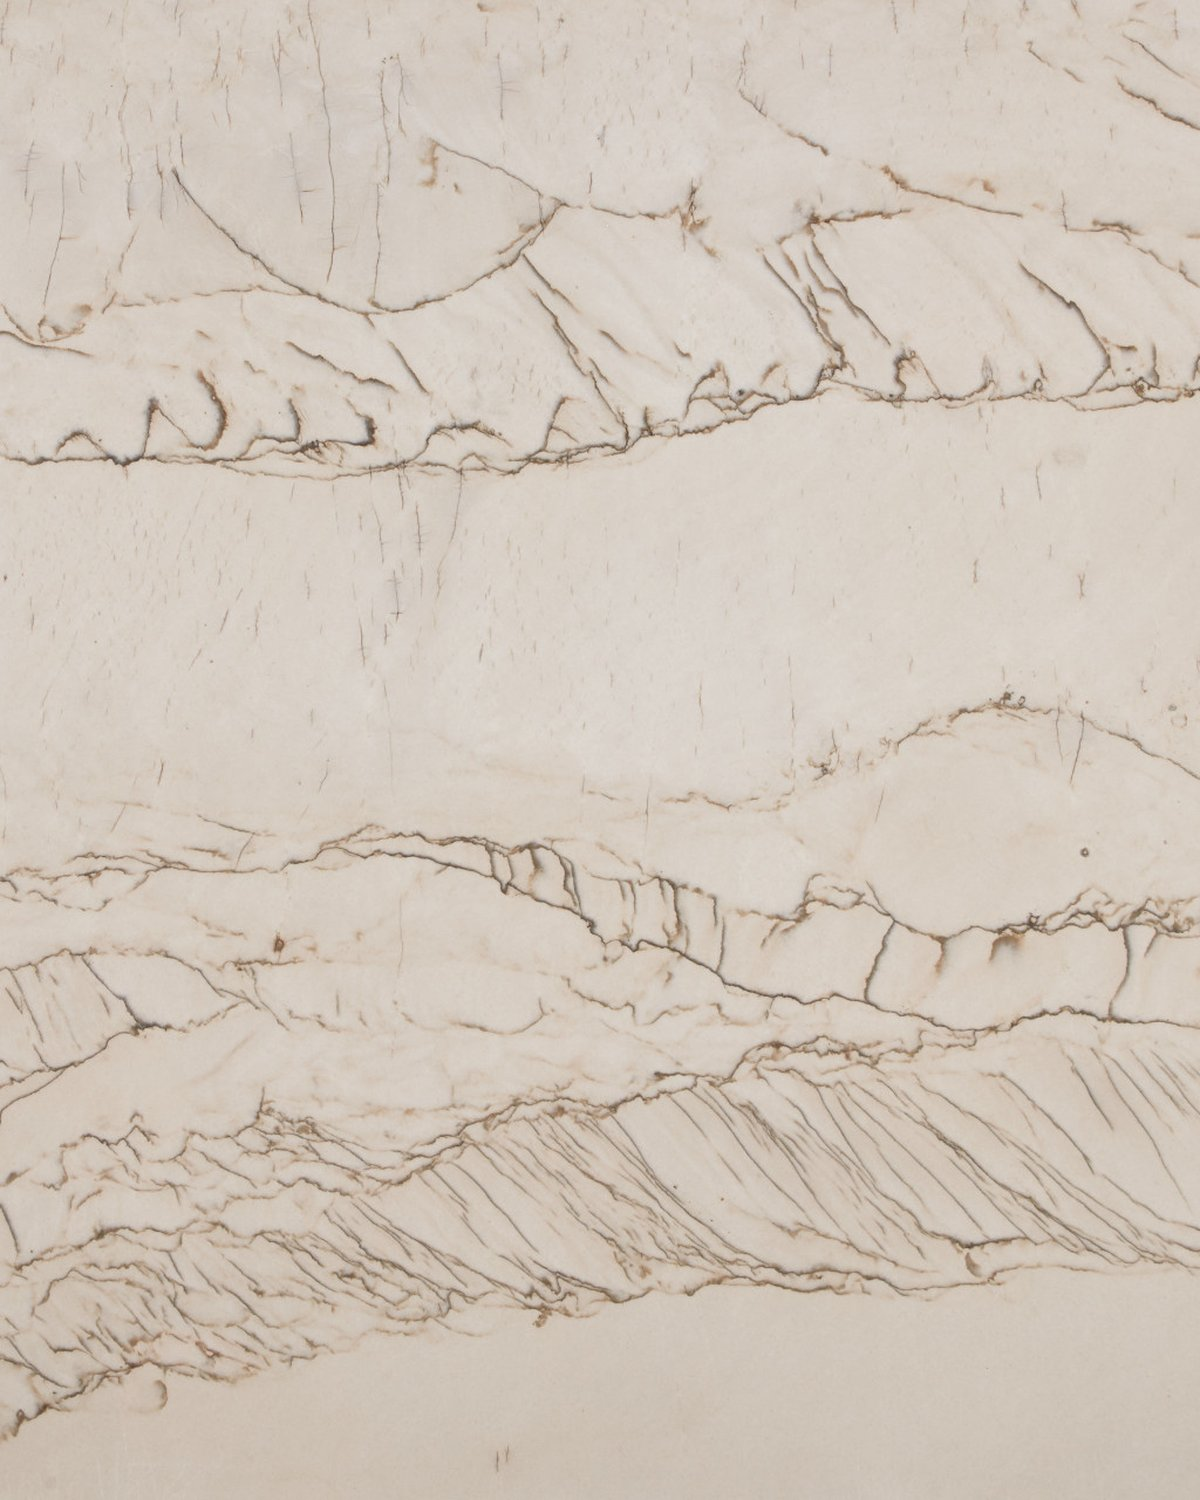
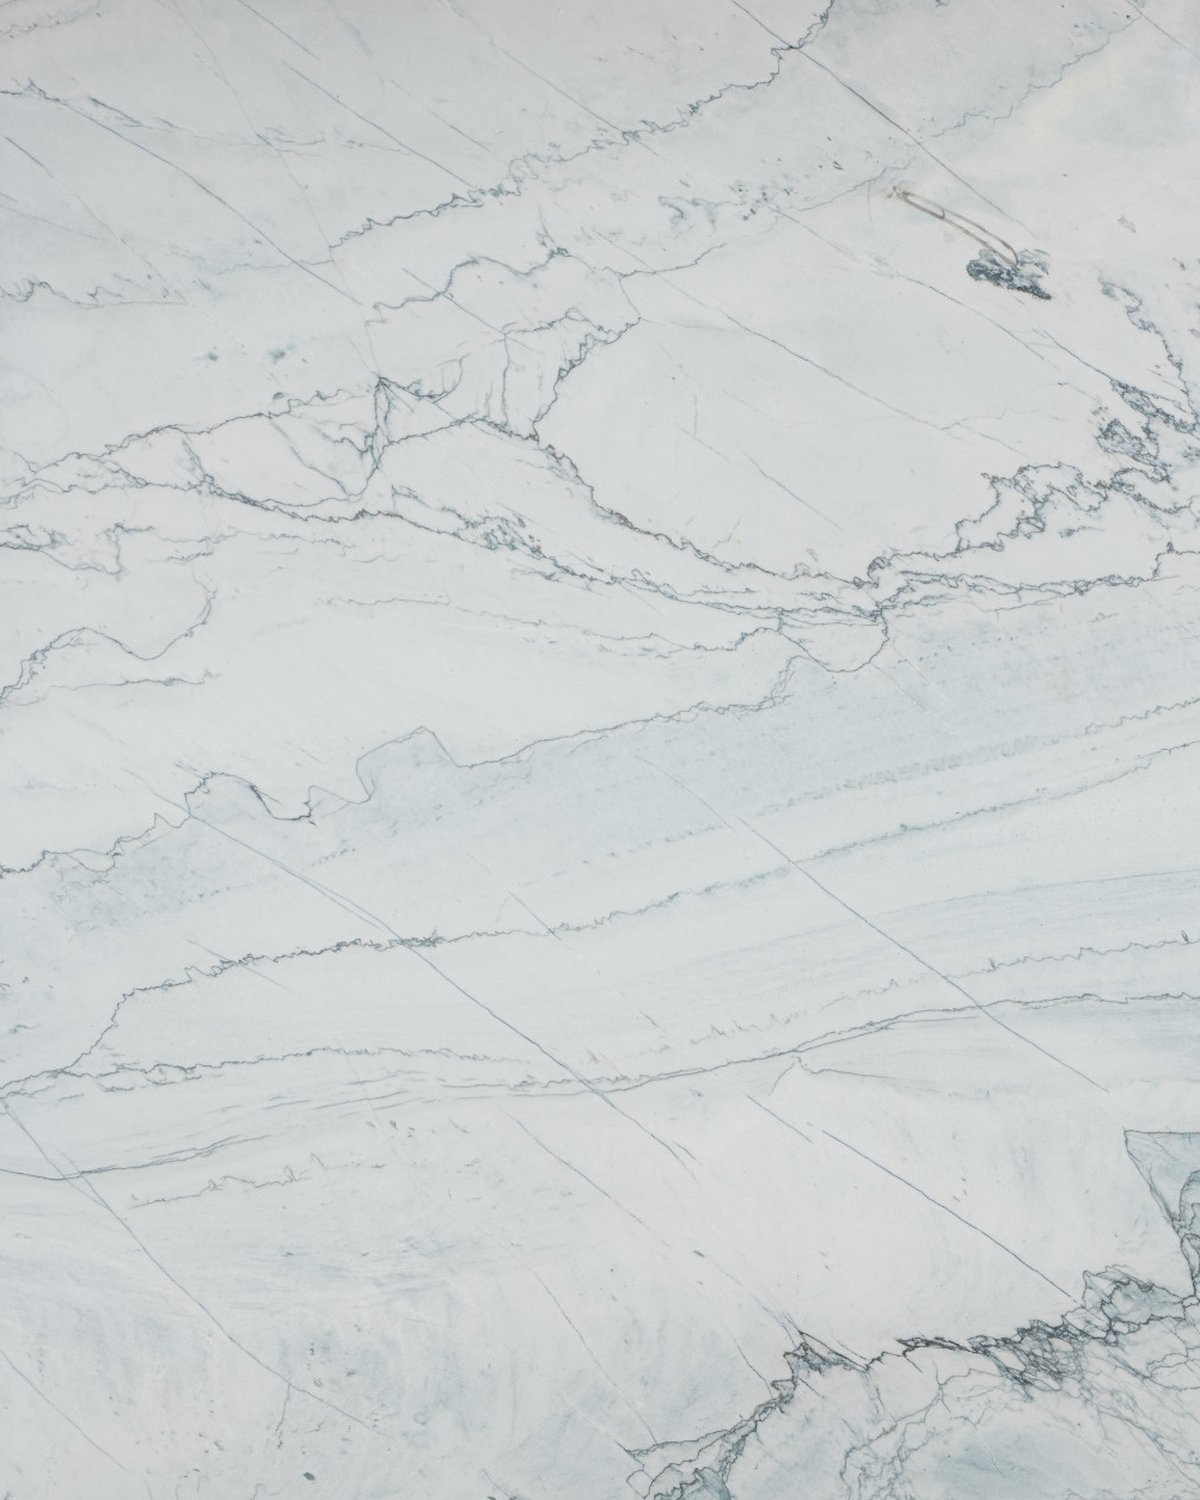
Palette: taller labelled rows. Scenes: replace three weak lead images
PALETTE
Rows were ~190px, which put ten-plus frames on screen at once — horizontal
noise rather than a palette. Items are now 380px (clamp 250–440px), so five
read at a time. Gap between rows went 2px to ~24px and each band carries a
standing STONE / TILE / CABINETRY label pinned left behind a gradient scrim,
so the three material types are unmistakable instead of blurring into one
continuous belt. The label plate was covering a third of a 390px screen, so
it shrinks under 620px.

SCENE LEADS
  01  Calacatta Taupe -> Artemis. Pale with crisp veining, and it carries the
      2x2 cell against four darker frames where the taupe went flat.
  03  Zagora zellige -> Masari. Faceted relief, which is what "surface, up
      close" is actually about. The zellige also came out of the palette row
      and the tile hero rotation — it was on screen three separate times.
  02  Bottom-right cell was a countertop with a utensil crock, not cabinetry.
      Now a fluted white oak island end: unmistakably a door profile, and a
      different one from the flat-panel oak already in the cluster.

Checked six cabinetry candidates before picking: three of them were ranges or
faucets rather than cabinetry, which is how the original slipped through.

Artemis is cut from the 2048px raw at 1.20x; Masari is native 800x1000 with no
upscale at all. Verified at 1440 and 390 — 105 images, none broken.

diff --git a/index.html b/index.html
@@ -329,17 +329,35 @@
     /* Three rows instead of one belt, each drifting against the one above it.
        Opposing directions read as a moving palette rather than a single conveyor,
        and three shallower rows show ~3x the material in the same vertical space. */
-    .mood-rows { display: flex; flex-direction: column; gap: 2px; }
+    .mood-rows { display: flex; flex-direction: column; gap: clamp(16px, 2.4vh, 30px); }
+    /* Each material gets its own band with a standing label, so stone / tile /
+       cabinetry read as three distinct rows rather than one continuous belt.
+       Rows are tall — short rows meant a lot of small frames on screen at once,
+       which was just horizontal noise. */
+    .mood-line { position: relative; overflow: hidden; }
+    .mood-line-label { position: absolute; left: 0; top: 0; bottom: 0; z-index: 3; display: flex; align-items: center;
+                       padding: 0 clamp(26px,3.4vw,52px) 0 clamp(20px,4vw,56px); pointer-events: none;
+                       background: linear-gradient(90deg, var(--void) 52%, rgba(10,9,8,0.82) 78%, rgba(10,9,8,0)); }
+    .mood-line-label span { font-family: var(--mono); font-size: clamp(10px,0.86vw,12px); letter-spacing: 0.3em;
+                            text-transform: uppercase; color: var(--bone); white-space: nowrap; }
+    .mood-line-label i { display: block; width: 26px; height: 1px; background: var(--line2, rgba(231,227,219,0.3)); margin-right: 14px; }
+    @media (max-width: 620px) {
+      /* the label plate was covering a third of a phone screen */
+      .mood-line-label { padding: 0 clamp(14px,3vw,20px) 0 clamp(14px,3vw,20px);
+                         background: linear-gradient(90deg, var(--void) 40%, rgba(10,9,8,0)); }
+      .mood-line-label i { width: 14px; margin-right: 9px; }
+      .mood-line-label span { font-size: 9px; letter-spacing: 0.22em; }
+    }
     .mood-row { display: flex; gap: 2px; width: max-content; will-change: transform; }
     .mood-row.r1 { animation: moodRight 150s linear infinite; }
     .mood-row.r2 { animation: moodLeft  128s linear infinite; }
     .mood-row.r3 { animation: moodRight 168s linear infinite; }
     .moodband:hover .mood-row { animation-play-state: paused; }
-    .mood-item { position: relative; flex: none; height: clamp(150px, 21vh, 250px); aspect-ratio: 3 / 4; overflow: hidden; background: var(--coal); }
+    .mood-item { position: relative; flex: none; height: clamp(250px, 40vh, 440px); aspect-ratio: 3 / 4; overflow: hidden; background: var(--coal); }
     .mood-item img { width: 100%; height: 100%; object-fit: cover; display: block; transition: transform 1.5s cubic-bezier(.2,.7,.2,1); }
     .mood-item:hover img { transform: scale(1.05); }
     .mood-item::after { content: ""; position: absolute; inset: 0; z-index: 2; pointer-events: none; background: linear-gradient(180deg, transparent 50%, rgba(10,9,8,0.74)); }
-    .mood-cap { position: absolute; left: 12px; bottom: 10px; z-index: 3; font-family: var(--mono); font-size: 9.5px; letter-spacing: 0.18em; text-transform: uppercase; color: rgba(231,227,219,0.92); }
+    .mood-cap { position: absolute; left: 14px; bottom: 12px; z-index: 3; font-family: var(--mono); font-size: 10.5px; letter-spacing: 0.2em; text-transform: uppercase; color: rgba(231,227,219,0.92); }
     @keyframes moodLeft  { from { transform: translateX(0); }    to { transform: translateX(-50%); } }
     @keyframes moodRight { from { transform: translateX(-50%); } to { transform: translateX(0); } }
     @media (prefers-reduced-motion: reduce) { .mood-row { animation: none; } .mood-fade { opacity: 1 !important; } }
@@ -693,8 +711,9 @@
     </div>
     <div class="mood-rows">
       <!-- Stone — drifts right · set of 12, duplicated for the seamless wrap -->
-      <div class="mood-row r1">
-        <div class="mood-item"><img src="assets/img/material/mood/st-stella-maestro.jpg" alt="Stella Maestro" loading="lazy"><span class="mood-cap">Stella Maestro</span></div>
+      <div class="mood-line">
+        <div class="mood-line-label" aria-hidden="true"><i></i><span>Stone</span></div>
+  <div class="mood-row r1">        <div class="mood-item"><img src="assets/img/material/mood/st-stella-maestro.jpg" alt="Stella Maestro" loading="lazy"><span class="mood-cap">Stella Maestro</span></div>
         <div class="mood-item"><img src="assets/img/material/mood/st-titanium.jpg" alt="Titanium" loading="lazy"><span class="mood-cap">Titanium</span></div>
         <div class="mood-item"><img src="assets/img/material/mood/st-acqua-bella.jpg" alt="Acqua Bella" loading="lazy"><span class="mood-cap">Acqua Bella</span></div>
         <div class="mood-item"><img src="assets/img/material/mood/st-vittara.jpg" alt="Vittara" loading="lazy"><span class="mood-cap">Vittara</span></div>
@@ -717,11 +736,12 @@
         <div class="mood-item"><img src="assets/img/material/mood/st-blue-tahoe.jpg" alt="Blue Tahoe" loading="lazy"><span class="mood-cap">Blue Tahoe</span></div>
         <div class="mood-item"><img src="assets/img/material/mood/st-tempest-blue.jpg" alt="Tempest Blue" loading="lazy"><span class="mood-cap">Tempest Blue</span></div>
         <div class="mood-item"><img src="assets/img/material/mood/st-calacatta-taupe.jpg" alt="Calacatta Taupe" loading="lazy"><span class="mood-cap">Calacatta Taupe</span></div>
-        <div class="mood-item"><img src="assets/img/material/mood/st-ebon.jpg" alt="Ebon" loading="lazy"><span class="mood-cap">Ebon</span></div>
+        <div class="mood-item"><img src="assets/img/material/mood/st-ebon.jpg" alt="Ebon" loading="lazy"><span class="mood-cap">Ebon</span></div>      </div>
       </div>
       <!-- Tile — drifts left · set of 16, duplicated for the seamless wrap -->
-      <div class="mood-row r2">
-        <div class="mood-item"><img src="assets/img/material/mood/ti-zagora.jpg" alt="Zagora Zellige" loading="lazy"><span class="mood-cap">Zagora Zellige</span></div>
+      <div class="mood-line">
+        <div class="mood-line-label" aria-hidden="true"><i></i><span>Tile</span></div>
+  <div class="mood-row r2">        <div class="mood-item"><img src="assets/img/material/mood/ti-marduk.jpg" alt="Marduk wave-relief tile" loading="lazy"><span class="mood-cap">Marduk</span></div>
         <div class="mood-item"><img src="assets/img/material/mood/ti-thalia-3d-carved-rosette.jpg" alt="Thalia Carved" loading="lazy"><span class="mood-cap">Thalia Carved</span></div>
         <div class="mood-item"><img src="assets/img/material/mood/ti-santorini-petals.jpg" alt="Santorini Petals" loading="lazy"><span class="mood-cap">Santorini Petals</span></div>
         <div class="mood-item"><img src="assets/img/material/mood/ti-calacatta-monet-petite-lantern-mosaic.jpg" alt="Calacatta Lantern" loading="lazy"><span class="mood-cap">Calacatta Lantern</span></div>
@@ -729,7 +749,7 @@
         <div class="mood-item"><img src="assets/img/material/mood/ti-envy-chevron.jpg" alt="Envy Chevron" loading="lazy"><span class="mood-cap">Envy Chevron</span></div>
         <div class="mood-item"><img src="assets/img/material/mood/ti-illumine-silver-dust-mermaid-scale.jpg" alt="Illumine Mermaid" loading="lazy"><span class="mood-cap">Illumine Mermaid</span></div>
         <div class="mood-item"><img src="assets/img/material/mood/ti-scalloped-field-tile.jpg" alt="Scalloped Field" loading="lazy"><span class="mood-cap">Scalloped Field</span></div>
-        <div class="mood-item"><img src="assets/img/material/mood/ti-zagora.jpg" alt="Zagora Zellige" loading="lazy"><span class="mood-cap">Zagora Zellige</span></div>
+        <div class="mood-item"><img src="assets/img/material/mood/ti-marduk.jpg" alt="Marduk wave-relief tile" loading="lazy"><span class="mood-cap">Marduk</span></div>
         <div class="mood-item"><img src="assets/img/material/mood/ti-thalia-3d-carved-rosette.jpg" alt="Thalia Carved" loading="lazy"><span class="mood-cap">Thalia Carved</span></div>
         <div class="mood-item"><img src="assets/img/material/mood/ti-santorini-petals.jpg" alt="Santorini Petals" loading="lazy"><span class="mood-cap">Santorini Petals</span></div>
         <div class="mood-item"><img src="assets/img/material/mood/ti-calacatta-monet-petite-lantern-mosaic.jpg" alt="Calacatta Lantern" loading="lazy"><span class="mood-cap">Calacatta Lantern</span></div>
@@ -737,7 +757,7 @@
         <div class="mood-item"><img src="assets/img/material/mood/ti-envy-chevron.jpg" alt="Envy Chevron" loading="lazy"><span class="mood-cap">Envy Chevron</span></div>
         <div class="mood-item"><img src="assets/img/material/mood/ti-illumine-silver-dust-mermaid-scale.jpg" alt="Illumine Mermaid" loading="lazy"><span class="mood-cap">Illumine Mermaid</span></div>
         <div class="mood-item"><img src="assets/img/material/mood/ti-scalloped-field-tile.jpg" alt="Scalloped Field" loading="lazy"><span class="mood-cap">Scalloped Field</span></div>
-        <div class="mood-item"><img src="assets/img/material/mood/ti-zagora.jpg" alt="Zagora Zellige" loading="lazy"><span class="mood-cap">Zagora Zellige</span></div>
+        <div class="mood-item"><img src="assets/img/material/mood/ti-marduk.jpg" alt="Marduk wave-relief tile" loading="lazy"><span class="mood-cap">Marduk</span></div>
         <div class="mood-item"><img src="assets/img/material/mood/ti-thalia-3d-carved-rosette.jpg" alt="Thalia Carved" loading="lazy"><span class="mood-cap">Thalia Carved</span></div>
         <div class="mood-item"><img src="assets/img/material/mood/ti-santorini-petals.jpg" alt="Santorini Petals" loading="lazy"><span class="mood-cap">Santorini Petals</span></div>
         <div class="mood-item"><img src="assets/img/material/mood/ti-calacatta-monet-petite-lantern-mosaic.jpg" alt="Calacatta Lantern" loading="lazy"><span class="mood-cap">Calacatta Lantern</span></div>
@@ -745,18 +765,19 @@
         <div class="mood-item"><img src="assets/img/material/mood/ti-envy-chevron.jpg" alt="Envy Chevron" loading="lazy"><span class="mood-cap">Envy Chevron</span></div>
         <div class="mood-item"><img src="assets/img/material/mood/ti-illumine-silver-dust-mermaid-scale.jpg" alt="Illumine Mermaid" loading="lazy"><span class="mood-cap">Illumine Mermaid</span></div>
         <div class="mood-item"><img src="assets/img/material/mood/ti-scalloped-field-tile.jpg" alt="Scalloped Field" loading="lazy"><span class="mood-cap">Scalloped Field</span></div>
-        <div class="mood-item"><img src="assets/img/material/mood/ti-zagora.jpg" alt="Zagora Zellige" loading="lazy"><span class="mood-cap">Zagora Zellige</span></div>
+        <div class="mood-item"><img src="assets/img/material/mood/ti-marduk.jpg" alt="Marduk wave-relief tile" loading="lazy"><span class="mood-cap">Marduk</span></div>
         <div class="mood-item"><img src="assets/img/material/mood/ti-thalia-3d-carved-rosette.jpg" alt="Thalia Carved" loading="lazy"><span class="mood-cap">Thalia Carved</span></div>
         <div class="mood-item"><img src="assets/img/material/mood/ti-santorini-petals.jpg" alt="Santorini Petals" loading="lazy"><span class="mood-cap">Santorini Petals</span></div>
         <div class="mood-item"><img src="assets/img/material/mood/ti-calacatta-monet-petite-lantern-mosaic.jpg" alt="Calacatta Lantern" loading="lazy"><span class="mood-cap">Calacatta Lantern</span></div>
         <div class="mood-item"><img src="assets/img/material/mood/ti-monet-mosaic.jpg" alt="Monet Mosaic" loading="lazy"><span class="mood-cap">Monet Mosaic</span></div>
         <div class="mood-item"><img src="assets/img/material/mood/ti-envy-chevron.jpg" alt="Envy Chevron" loading="lazy"><span class="mood-cap">Envy Chevron</span></div>
         <div class="mood-item"><img src="assets/img/material/mood/ti-illumine-silver-dust-mermaid-scale.jpg" alt="Illumine Mermaid" loading="lazy"><span class="mood-cap">Illumine Mermaid</span></div>
-        <div class="mood-item"><img src="assets/img/material/mood/ti-scalloped-field-tile.jpg" alt="Scalloped Field" loading="lazy"><span class="mood-cap">Scalloped Field</span></div>
+        <div class="mood-item"><img src="assets/img/material/mood/ti-scalloped-field-tile.jpg" alt="Scalloped Field" loading="lazy"><span class="mood-cap">Scalloped Field</span></div>      </div>
       </div>
       <!-- Cabinetry — drifts right · set of 14, duplicated for the seamless wrap -->
-      <div class="mood-row r3">
-        <div class="mood-item"><img src="assets/img/material/mood/cb-painted-shaker.jpg" alt="Painted Shaker" loading="lazy"><span class="mood-cap">Painted Shaker</span></div>
+      <div class="mood-line">
+        <div class="mood-line-label" aria-hidden="true"><i></i><span>Cabinetry</span></div>
+  <div class="mood-row r3">        <div class="mood-item"><img src="assets/img/material/mood/cb-painted-shaker.jpg" alt="Painted Shaker" loading="lazy"><span class="mood-cap">Painted Shaker</span></div>
         <div class="mood-item"><img src="assets/img/material/mood/cb-oak-shaker.jpg" alt="White Oak" loading="lazy"><span class="mood-cap">White Oak</span></div>
         <div class="mood-item"><img src="assets/img/material/mood/cb-navy.jpg" alt="Navy Cabinetry" loading="lazy"><span class="mood-cap">Navy Cabinetry</span></div>
         <div class="mood-item"><img src="assets/img/material/mood/cb-oak-run.jpg" alt="Oak & Quartzite" loading="lazy"><span class="mood-cap">Oak & Quartzite</span></div>
@@ -783,7 +804,7 @@
         <div class="mood-item"><img src="assets/img/material/mood/cb-oak-run.jpg" alt="Oak & Quartzite" loading="lazy"><span class="mood-cap">Oak & Quartzite</span></div>
         <div class="mood-item"><img src="assets/img/material/mood/cb-light-shaker.jpg" alt="Light Shaker" loading="lazy"><span class="mood-cap">Light Shaker</span></div>
         <div class="mood-item"><img src="assets/img/material/mood/cb-oak-tall.jpg" alt="Oak Tall Run" loading="lazy"><span class="mood-cap">Oak Tall Run</span></div>
-        <div class="mood-item"><img src="assets/img/material/mood/cb-navy-glass.jpg" alt="Navy & Glass" loading="lazy"><span class="mood-cap">Navy & Glass</span></div>
+        <div class="mood-item"><img src="assets/img/material/mood/cb-navy-glass.jpg" alt="Navy & Glass" loading="lazy"><span class="mood-cap">Navy & Glass</span></div>      </div>
       </div>
     </div>
     </div>
@@ -794,7 +815,7 @@
 
     <section class="scene scene-1" id="stone">
       <div class="scene-cluster reveal">
-        <figure class="lead"><img data-par="26" src="assets/img/material/scene-stone.jpg" alt="Calacatta Taupe — full slab, vein bands up close"><figcaption>Calacatta Taupe</figcaption></figure>
+        <figure class="lead"><img data-par="26" src="assets/img/material/scene-stone.jpg" alt="Artemis — full slab, veining up close"><figcaption>Artemis</figcaption></figure>
         <figure><img src="assets/img/material/mood/st-titanium.jpg" alt="Titanium granite" loading="lazy"><figcaption>Titanium</figcaption></figure>
         <figure><img src="assets/img/material/mood/st-stella-maestro.jpg" alt="Stella Maestro quartzite" loading="lazy"><figcaption>Stella Maestro</figcaption></figure>
         <figure><img src="assets/img/material/mood/st-cristallo-diamond-crystal.jpg" alt="Cristallo Diamond Crystal quartzite" loading="lazy"><figcaption>Cristallo Diamond</figcaption></figure>
@@ -816,7 +837,7 @@
         <figure><img src="assets/img/material/mood/cb-oak-run.jpg" alt="White oak cabinetry under a veined slab" loading="lazy"><figcaption>Oak & Quartzite</figcaption></figure>
         <figure><img src="assets/img/material/mood/cb-navy.jpg" alt="Navy cabinetry with an apron sink" loading="lazy"><figcaption>Navy Cabinetry</figcaption></figure>
         <figure><img src="assets/img/material/mood/cb-light-shaker.jpg" alt="Light painted shaker cabinetry" loading="lazy"><figcaption>Light Shaker</figcaption></figure>
-        <figure><img src="assets/img/material/mood/cb-oak-tall.jpg" alt="White oak tall cabinetry run" loading="lazy"><figcaption>Oak Tall Run</figcaption></figure>
+        <figure><img src="assets/img/material/mood/cb-fluted-oak.jpg" alt="Fluted white oak island end" loading="lazy"><figcaption>Fluted Oak</figcaption></figure>
       </div>
       <div class="scene-cap reveal">
         <span class="label">02 — Cabinetry</span>
@@ -830,7 +851,7 @@
 
     <section class="scene scene-3" id="tile">
       <div class="scene-cluster reveal">
-        <figure class="lead"><img data-par="22" src="assets/img/material/scene-tile.jpg" alt="Hand-glazed zellige field tile"><figcaption>Zagora Zellige</figcaption></figure>
+        <figure class="lead"><img data-par="22" src="assets/img/material/scene-tile.jpg" alt="Masari faceted relief tile"><figcaption>Zagora Zellige</figcaption></figure>
         <figure><img src="assets/img/material/mood/ti-thalia-3d-carved-rosette.jpg" alt="Thalia 3D carved rosette tile" loading="lazy"><figcaption>Thalia Carved</figcaption></figure>
         <figure><img src="assets/img/material/mood/ti-calacatta-monet-petite-lantern-mosaic.jpg" alt="Calacatta lantern mosaic" loading="lazy"><figcaption>Calacatta Lantern</figcaption></figure>
         <figure><img src="assets/img/material/mood/ti-santorini-petals.jpg" alt="Santorini Petals mosaic tile" loading="lazy"><figcaption>Santorini Petals</figcaption></figure>

diff --git a/tile.html b/tile.html
@@ -274,7 +274,7 @@
       "hero": "assets/img/tile/rose-brass-mosiac-tile.jpg",
       "heroSet": [
         "assets/img/tile/scalloped-field-tile.jpg",
-        "assets/img/tile/zagora.jpg",
+        "assets/img/tile/marduk.jpg",
         "assets/img/tile/thalia-3d-carved-rosette.jpg",
         "assets/img/tile/calacatta-monet-petite-lantern-mosaic.jpg",
         "assets/img/tile/monet-mosaic.jpg",
